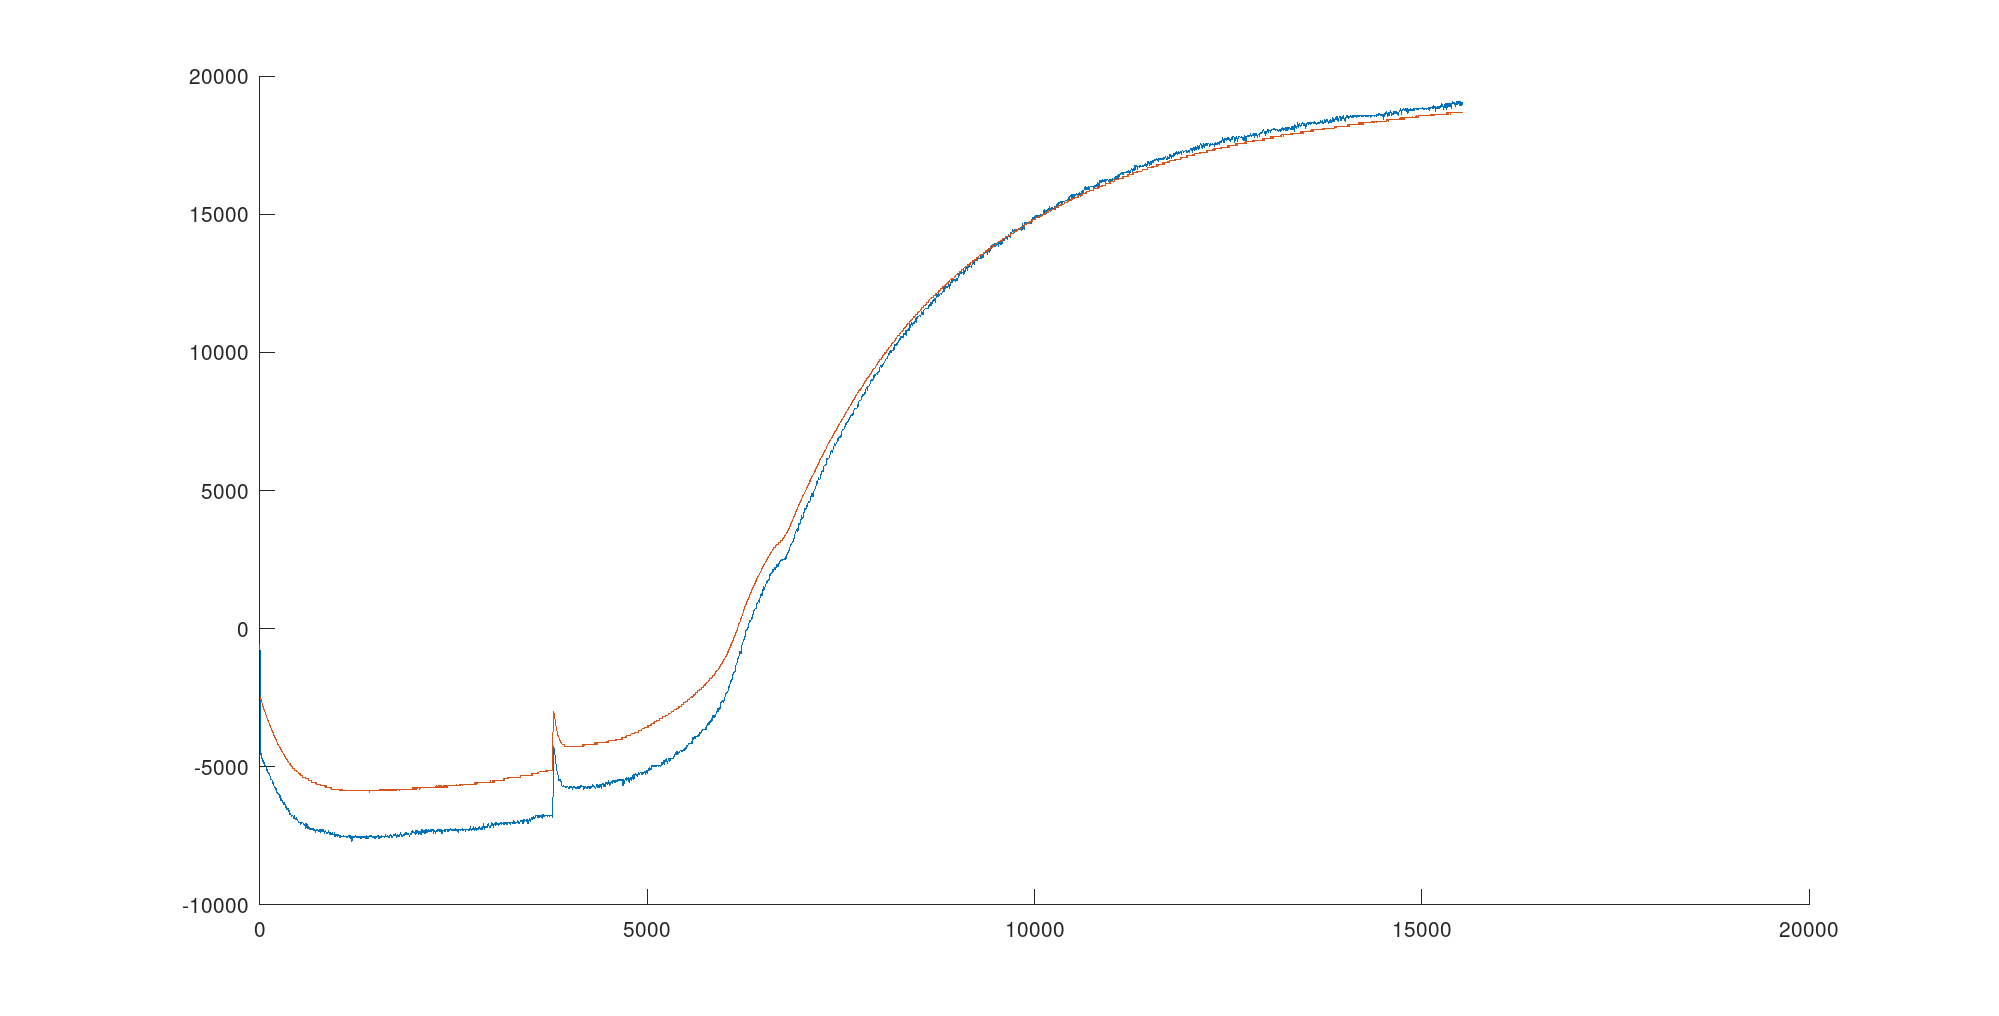
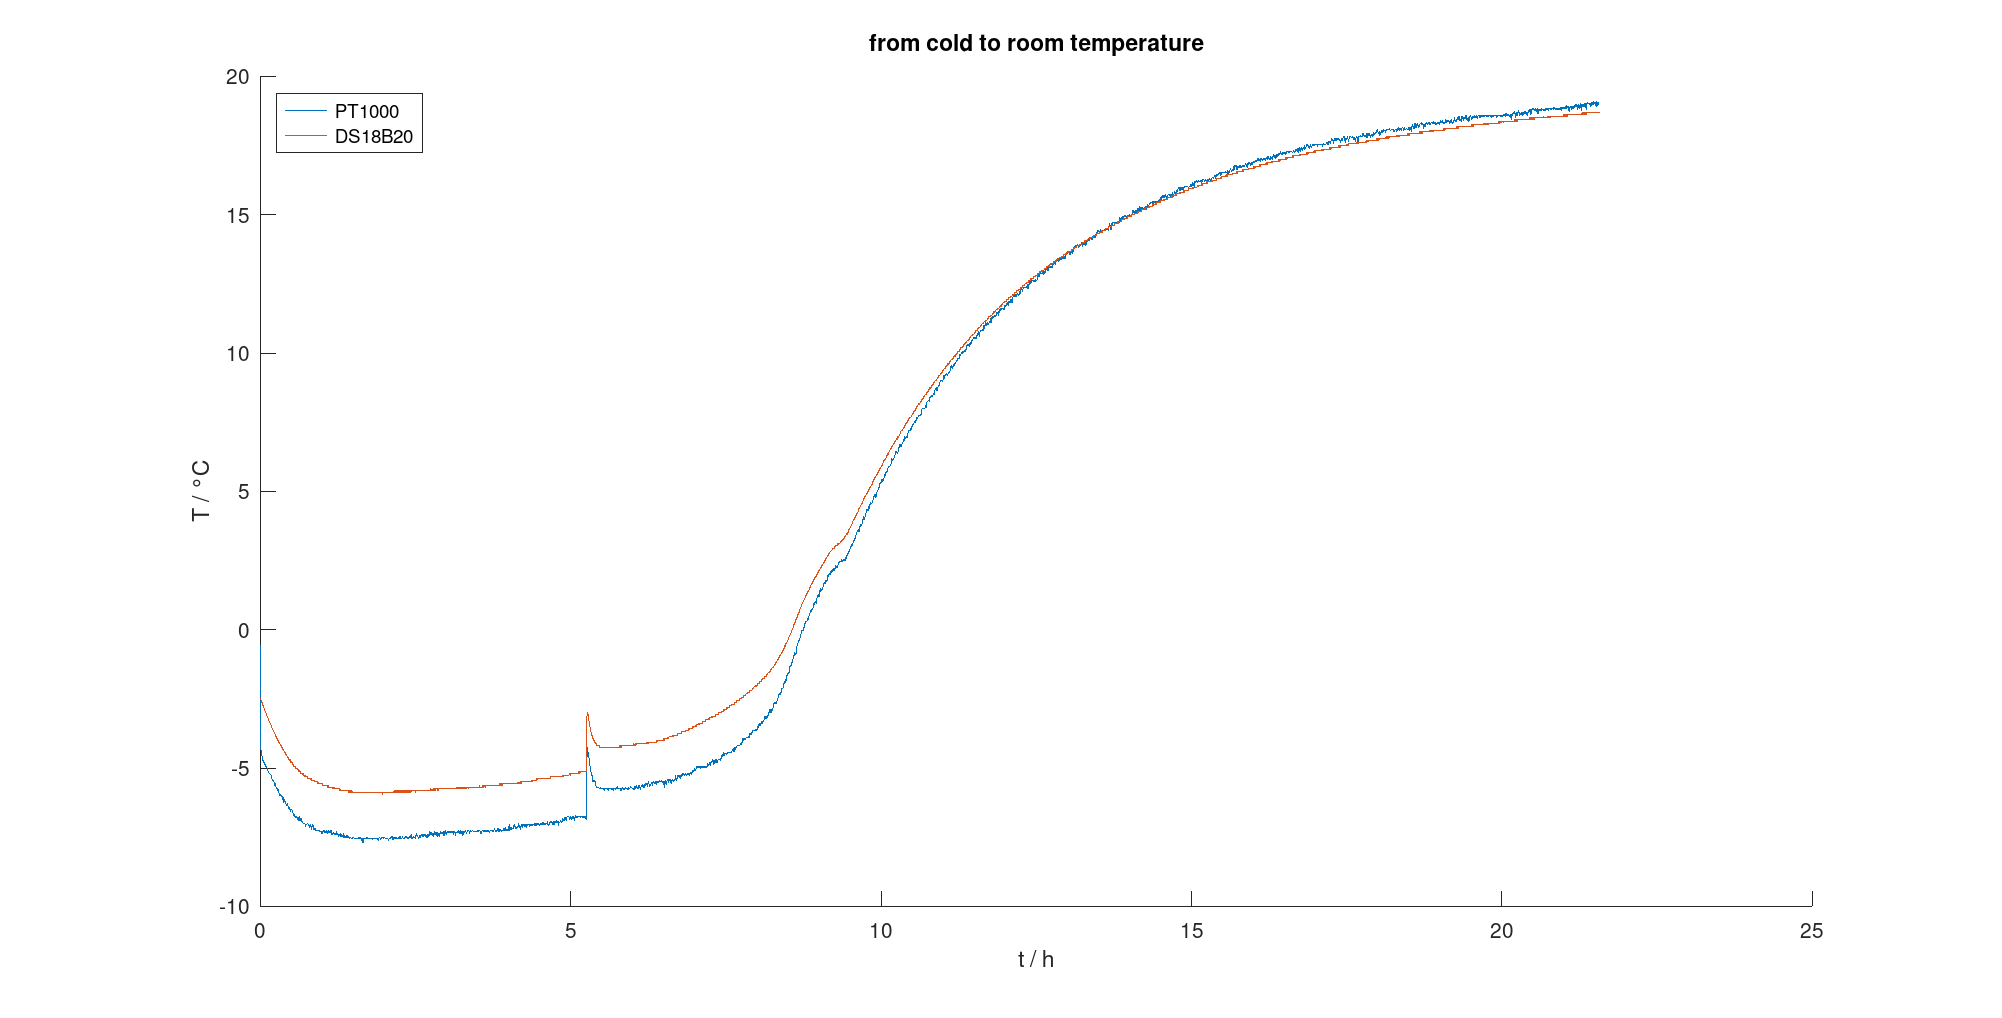
added images and text to results-readme

diff --git a/Testing/results_pt1000_bridge.m b/Testing/results_pt1000_bridge.m
@@ -4,13 +4,18 @@ filename2 = "ds18b20-log.csv"
 data1 = dlmread (filename1, ',');
 data2 = dlmread (filename2, ',');
 
-tick1 = data1([1:end], 2);
-tick2 = data2([1:end], 2);
+%%
+% convert ms-ticks to hours
+tick1 = data1([1:end], 2) / 1000 / 60 / 60; 
+tick2 = data2([1:end], 2) / 1000 / 60 / 60 ;
 
-temperature_pt1000_cold = data1([1:end], 6);
-temperature_ds18b20_cold = data2([1:end], 4);
-temperature_pt1000_warm = data1([1:end], 11);
-temperature_ds18b20_warm = data2([1:end], 7);
+%%
+% Daten sind in Grad Celsius * 1000 (Festkomma)
+temperature_pt1000_cold = data1([1:end], 6) / 1000; 
+temperature_pt1000_warm = data1([1:end], 11) / 1000;
+
+temperature_ds18b20_cold = data2([1:end], 4) / 1000;
+temperature_ds18b20_warm = data2([1:end], 7) / 1000;
 
 %%
 % Die Daten werden gemittelt bzw. geglaettet um eine besseren Analyse zu
@@ -21,12 +26,38 @@ temperature_pt1000_warm_lp = filter(h_mean, 1, temperature_pt1000_warm);
 
 figure()
 hold on
-#plot(temperature_pt1000_cold)
-plot(temperature_pt1000_cold_lp)
-plot(temperature_ds18b20_cold)
+#plot(tick1, temperature_pt1000_cold)
+plot(tick1, temperature_pt1000_cold_lp)
+plot(tick2, temperature_ds18b20_cold)
+title(['from cold to room temperature'])
+ylabel('T / °C')
+xlabel('t / h')
+legend('PT1000',  'DS18B20', 'Location', 'NorthWest')
+
 
 figure()
 hold on
-#plot(temperature_pt1000_warm)
-plot(temperature_pt1000_warm_lp)
-plot(temperature_ds18b20_warm)
+#plot(tick1, temperature_pt1000_warm)
+plot(tick1, temperature_pt1000_warm_lp)
+plot(tick2, temperature_ds18b20_warm)
+title(['from hot to room temperature'])
+ylabel('T / °C')
+xlabel('t / h')
+legend('PT1000',  'DS18B20', 'Location', 'NorthWest')
+
+%%
+% Error, cold-series has less data point, so its need to take its len as reference to do calculations
+len = length(temperature_pt1000_cold_lp)
+err_pt1000_cold = abs(temperature_pt1000_cold_lp([N:end]) - temperature_ds18b20_cold([N:len])) ./ temperature_ds18b20_cold([N:len]);
+err_pt1000_warm = abs(temperature_pt1000_warm_lp([N:end]) - temperature_ds18b20_warm([N:len])) ./ temperature_ds18b20_warm([N:len]);
+
+figure()
+hold on
+plot(tick1([N:end]), err_pt1000_cold*100)
+plot(tick1([N:end]), err_pt1000_warm*100)
+ylim([-100,100])
+title(['error'])
+ylabel('error / %')
+xlabel('t / h')
+legend('cold',  'warm', 'Location', 'NorthWest')
+

diff --git a/Testing/readme.md b/Testing/readme.md
@@ -7,9 +7,25 @@ So I use the results of the DS18B20 to estimate how good my measurement bridge i
 
 I than use a rubber band to attache one DS18B20 to one PT1000 sensor. I did this twice. On pair is going to do a *hot to room temperature test*. The other pair is doing a *cold to room temperature test*. I use a metal small pitcher filled with hot water from the kettle. And I use thermal pack from the freezer. Both gets equipped with one pair of temperature sensors.
 
-To start the testing scene I only had to plug in the two Nucleo boards to my computer and start a serial terminal to log the outputs to console. I used CuteCom. The firmware of each Nucleo board prints the temperature conversion results to serial monitor with 500ms period (f=2Hz). Total record time is T = N/f = 15540/2Hz = 7770 sec = 2h:10min.
+## Execution
+To start the testing scene I only had to plug in the two Nucleo boards to my computer and start a serial terminal to log the outputs to console. I used CuteCom. The firmware of each Nucleo board prints the temperature conversion results to serial monitor with 5000ms period (f=0.2Hz). Total record time is T = N/f = 15540/0.2Hz = 77700 sec = 21h:30min.
+
+## Interpretation
+Study the plots two things are to mention: 
+- the measurement bridge (blue line) is much noisy 
+- red line and blue line are quit identical except below zero degrees Celsius
+
+The glitch in the cold record at around 3800 ms is due to my impatience. I lifted the thermal pack to feel the cold with my hand. At least I could verify that both type of sensors a quick in response :).
 
 ![](../Images/results-cold-to-room.png)
 ![](../Images/results-hot-to-room.png)
 ![](../Images/results-cold-to-room-lp.png)
 ![](../Images/results-hot-to-room-lp.png)
+
+- to smooth the measurements I added a moving-average filter
+- recap the schematics and the simulation done there it is clear, that this circuit is not gonna work for temperatures below zero, so the behavior is quit as expected.
+
+## Error
+![](../Images/results-error.png)
+
+## Conclusions
